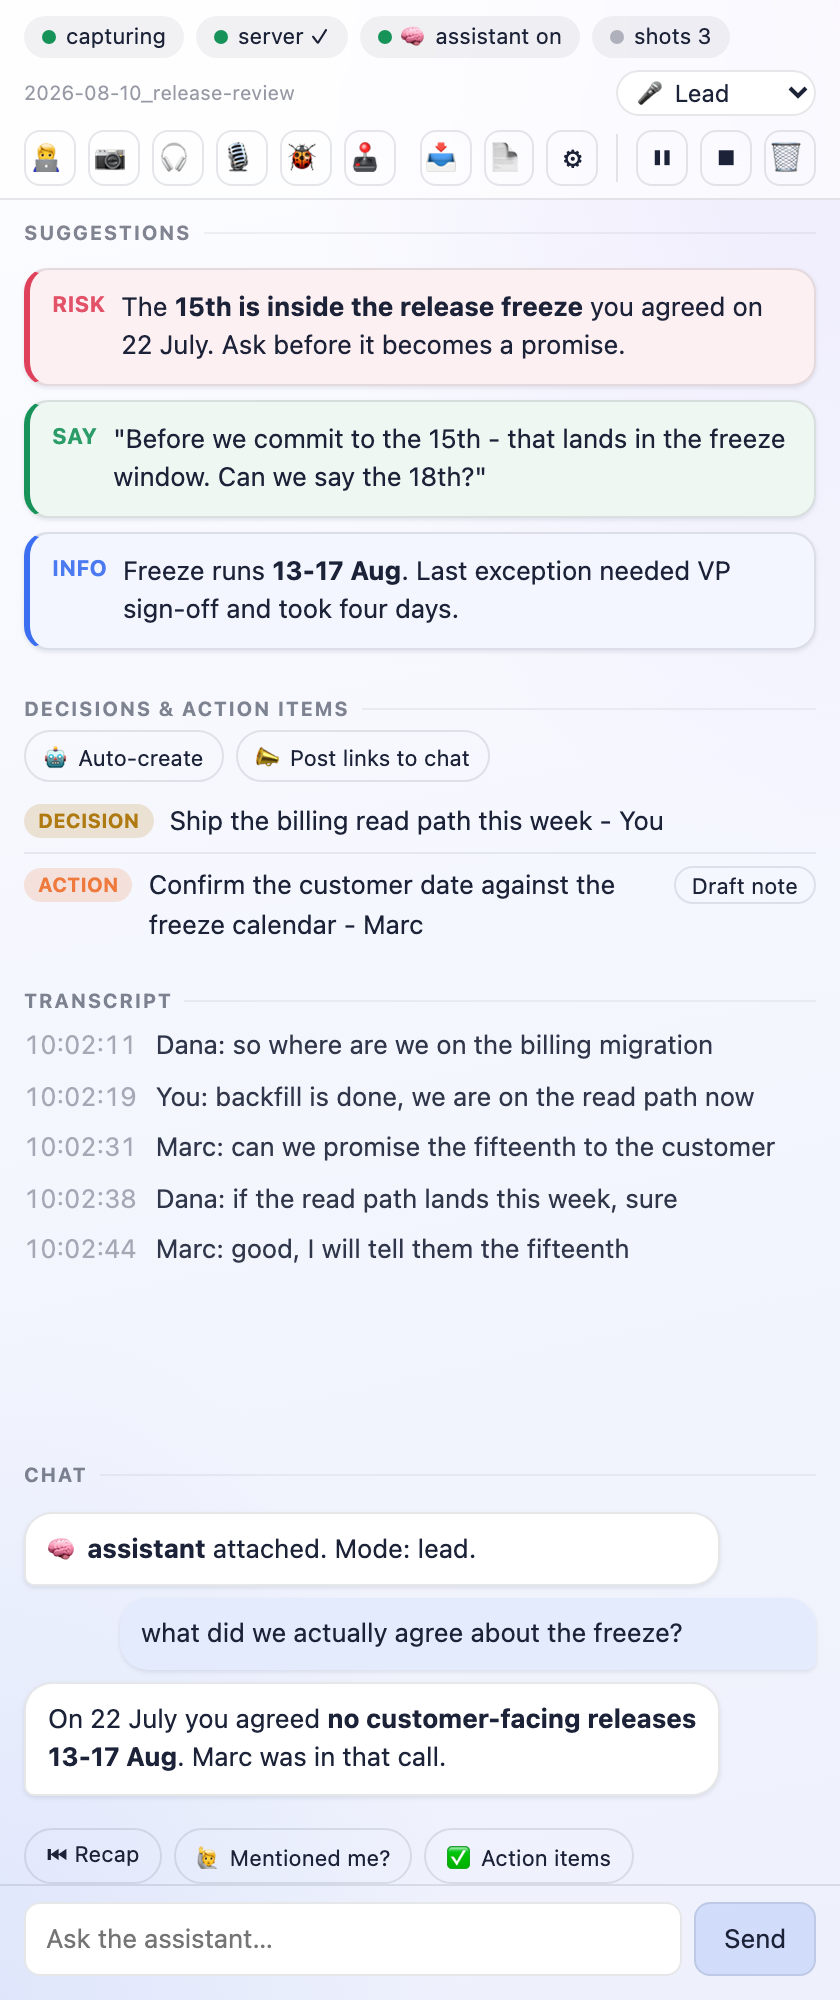
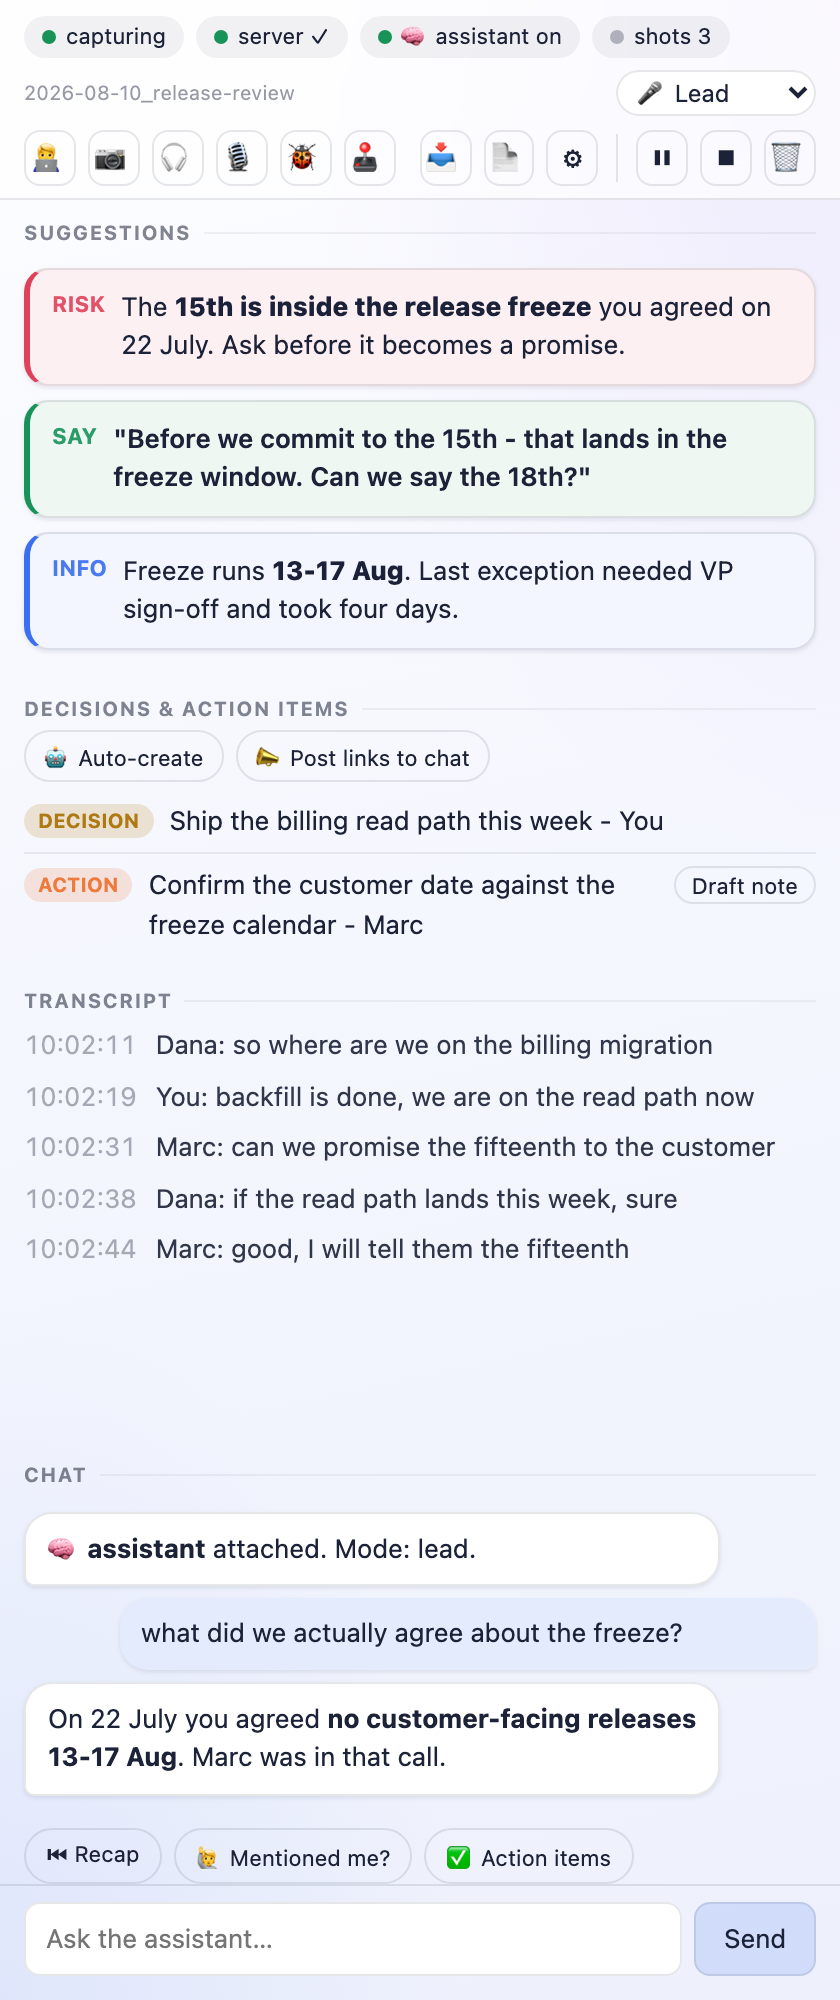
docs: draft the two store tiles the listing was still waiting on
B4 assumed a human had to shoot these off a real call, because Chrome cannot photograph an extension
page. It can be rendered instead: store.mjs puts the live panel next to a caption at 1280x800, one
tile in a call and one in co-pilot mode.

No fake call grid, on purpose - that would mean inventing faces, and a listing image that invents its
own users is what a reviewer should reject. Still the author's call whether these ship or a real
capture replaces them.

panel.mjs now holds the filler and the two scripted sessions so still.mjs and store.mjs cannot drift
apart.

diff --git a/tools/media/README.md b/tools/media/README.md
@@ -11,8 +11,16 @@ advertising a UI that no longer exists.
 npm i -D playwright && npx playwright install chromium   # not a project dependency
 node tools/media/still.mjs     # docs/media/panel-full.png
 node tools/media/clip.mjs      # docs/media/panel-live.{mp4,gif} + poster  (needs ffmpeg)
+node tools/media/store.mjs     # docs/media/store-*.png - the 1280x800 Chrome Web Store tiles
 node tools/media/og-card.mjs   # docs/media/og-card.png  (reads panel-full.png, run it last)
 ```
+
+`panel.mjs` holds the shared filler and the two scripted sessions (a release review, a co-pilot debug) that
+every image draws from, so a wording change lands everywhere at once.
+
+The store tiles are a caption beside the live panel, not a photograph of a browser window. That is
+deliberate: faking a call grid means inventing faces, and a listing image that invents its own users is the
+one thing a reviewer should reject.
 
 Already have Playwright somewhere else: `MLA_PLAYWRIGHT=/path/to/playwright/index.mjs node tools/media/still.mjs`.
 

diff --git a/STORE.md b/STORE.md
@@ -65,7 +65,8 @@ Privacy policy: `PRIVACY.md`.
 - [x] Bundled skill is a template, not the author's personal one (`install.sh` fills user/language/domain).
 - [x] Privacy policy hosted publicly (https://krystiangw.github.io/meet-live-assist/) - link it in the listing.
 - [ ] Rebuild the upload zip at the version you are submitting (`npm run build:public`).
-- [ ] Screenshots (1280×800): panel in a Meet call + co-pilot mode.
+- [x] Screenshots (1280x800): `docs/media/store-1-in-a-call.png` + `docs/media/store-2-co-pilot.png`,
+      regenerate with `node tools/media/store.mjs`.
 - [ ] Note in the listing that a local companion server is required (link the docs/integration page).
 - [ ] Note that the first 📷 asks for screen access: `<all_urls>` is granted on a gesture, not at install,
       so an unexpected prompt reads as a failure. Same for starting co-pilot.
